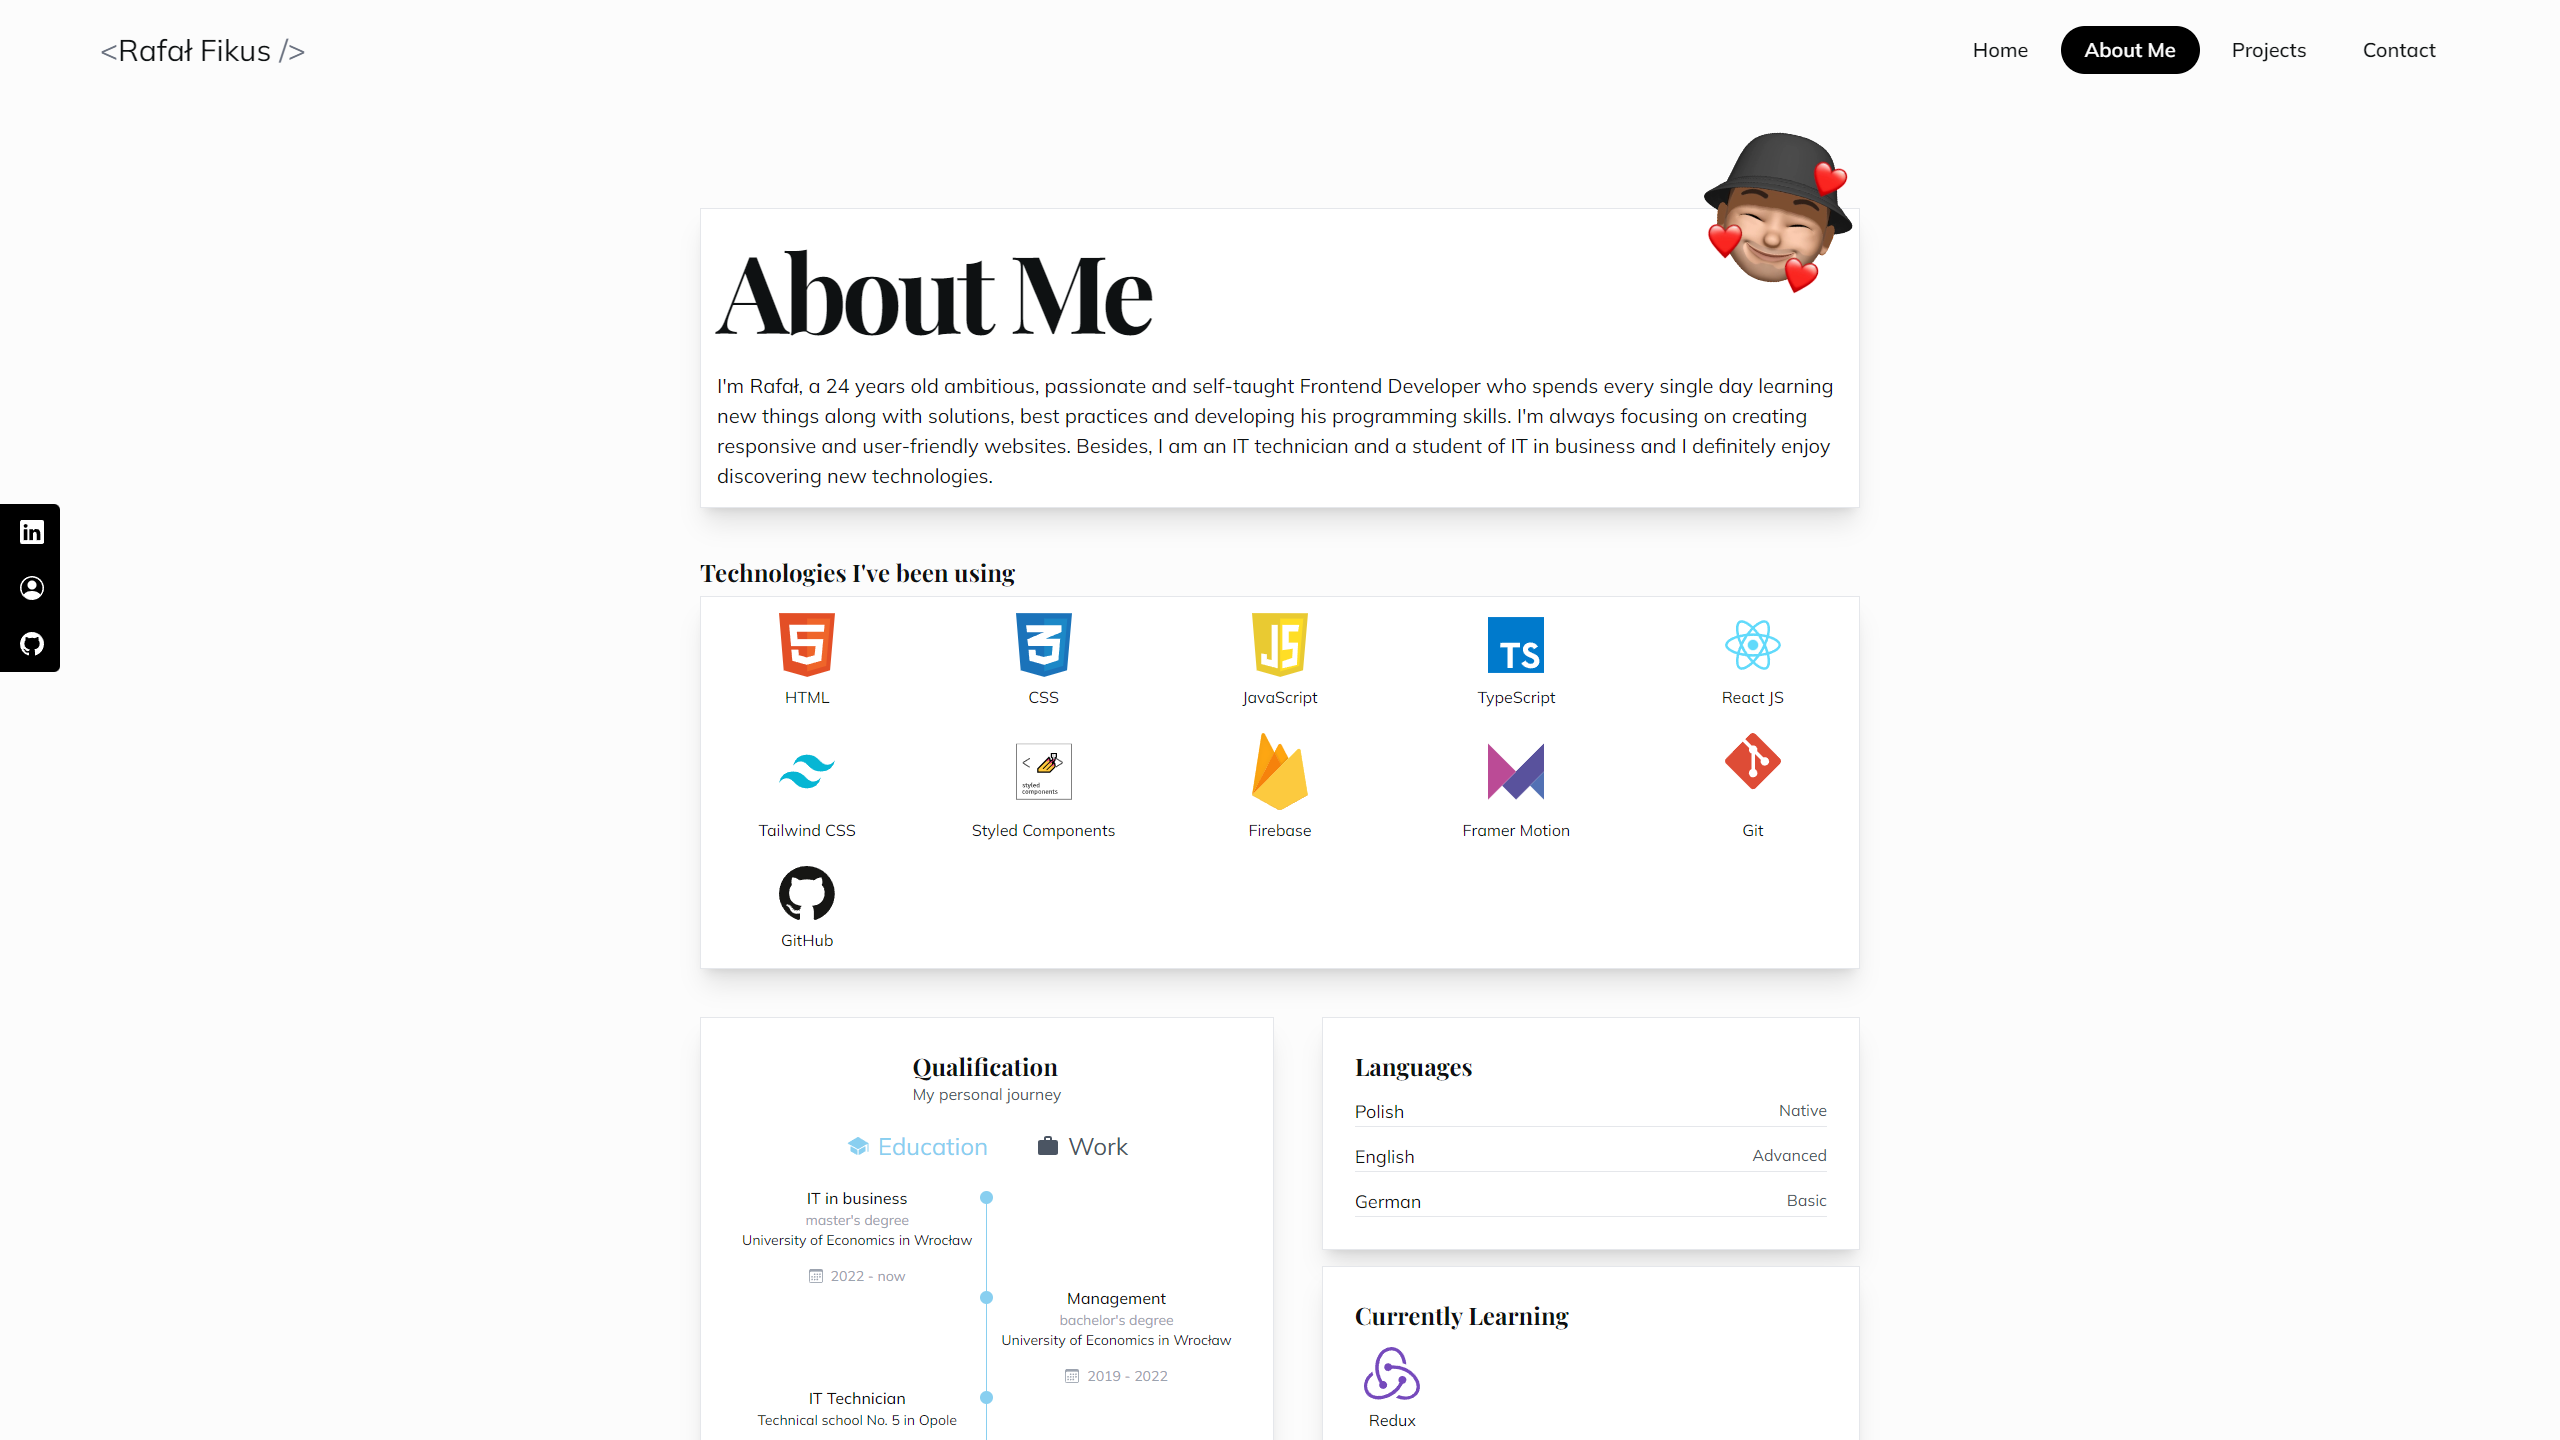
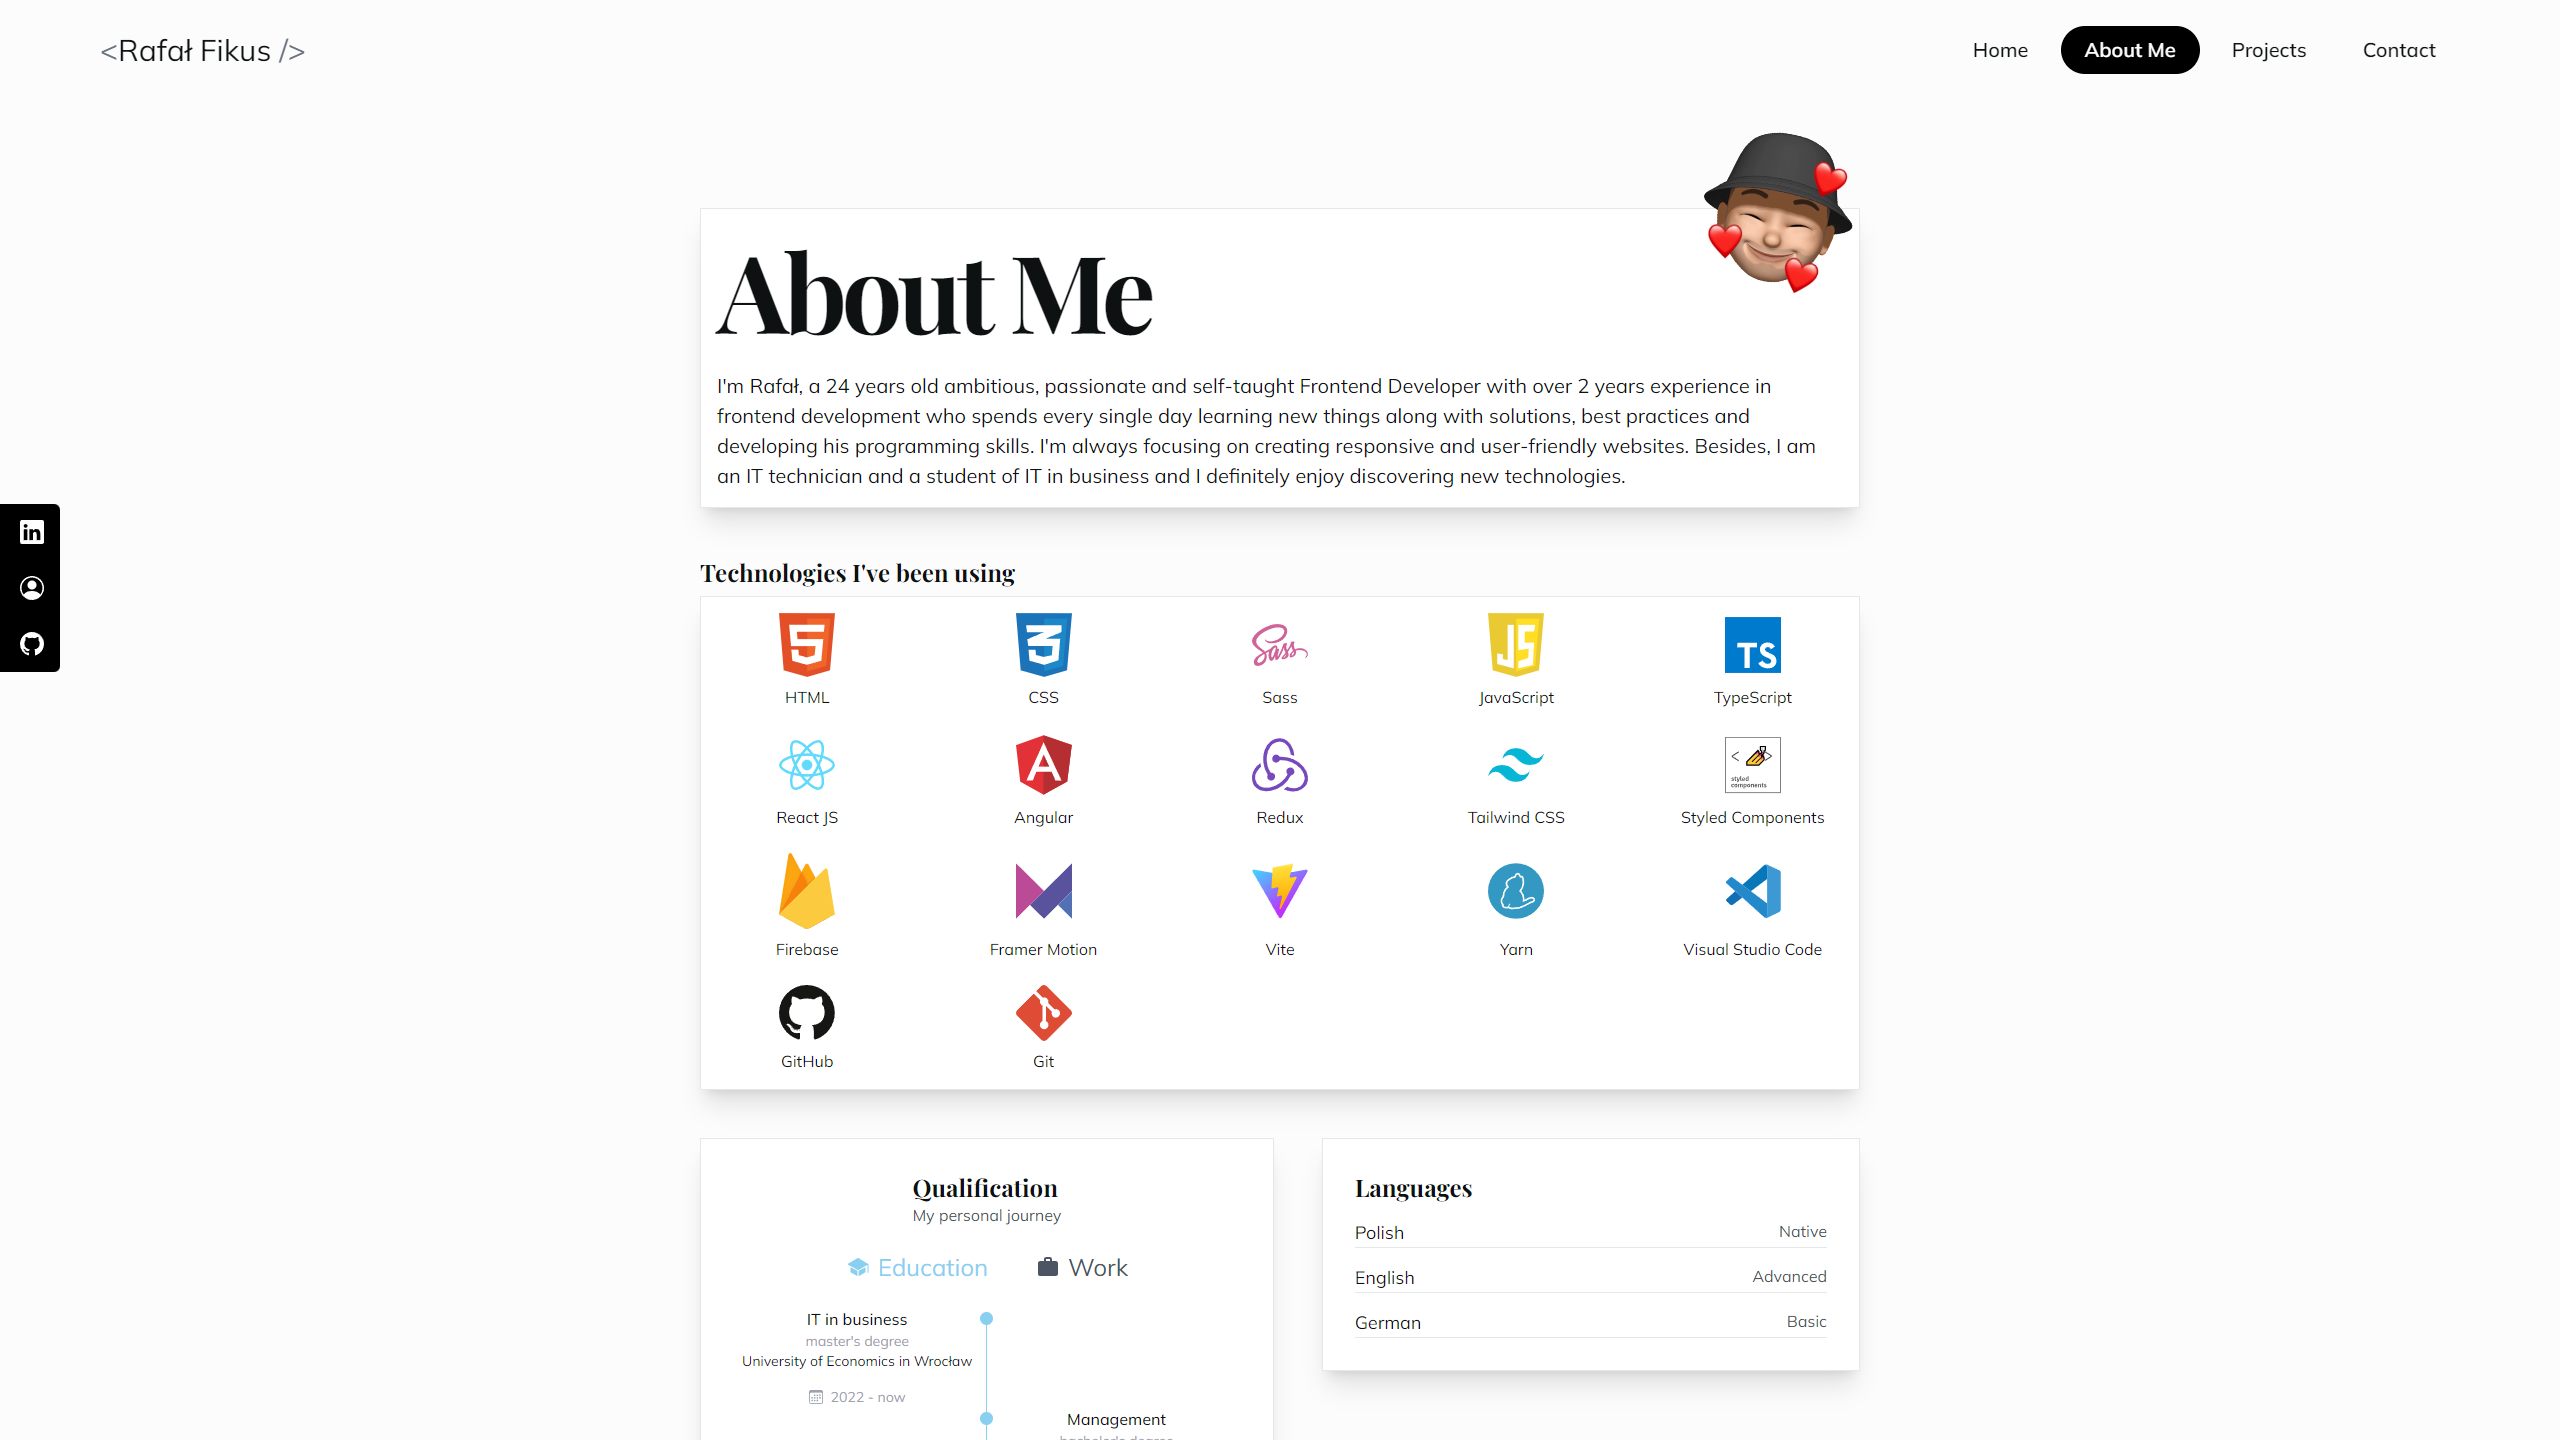
updt

diff --git a/src/assets/index.ts b/src/assets/index.ts
@@ -10,6 +10,11 @@ import githubLogo from "./techLogos/githubLogo.svg";
 import gitLogo from "./techLogos/gitLogo.svg";
 import typescriptLogo from "./techLogos/typescriptLogo.svg";
 import reduxLogo from "./techLogos/reduxLogo.svg";
+import angularLogo from "./techLogos/angularLogo.svg";
+import sassLogo from "./techLogos/sassLogo.svg";
+import viteLogo from "./techLogos/viteLogo.svg";
+import vscLogo from "./techLogos/vscLogo.svg";
+import yarnLogo from "./techLogos/yarnLogo.svg";
 import netflix1 from "./websites/netflix1.webp";
 import netflix2 from "./websites/netflix2.webp";
 import netflix3 from "./websites/netflix3.webp";
@@ -22,6 +27,8 @@ import tesla1 from "./websites/tesla1.webp";
 import tesla2 from "./websites/tesla2.webp";
 import weather1 from "./websites/weather1.webp";
 import weather2 from "./websites/weather2.webp";
+import games1 from "./websites/games1.webp";
+import games2 from "./websites/games2.webp";
 
 const techList = [
   {
@@ -36,48 +43,78 @@ const techList = [
   },
   {
     id: 3,
+    name: "Sass",
+    image: sassLogo,
+  },
+  {
+    id: 4,
     name: "JavaScript",
     image: jsLogo,
   },
   {
-    id: 4,
+    id: 5,
     name: "TypeScript",
     image: typescriptLogo,
   },
   {
-    id: 5,
+    id: 6,
     name: "React JS",
     image: reactLogo,
   },
   {
-    id: 6,
+    id: 7,
+    name: "Angular",
+    image: angularLogo,
+  },
+  {
+    id: 8,
+    name: "Redux",
+    image: reduxLogo,
+  },
+  {
+    id: 9,
     name: "Tailwind CSS",
     image: tailwindLogo,
   },
   {
-    id: 7,
+    id: 10,
     name: "Styled Components",
     image: styledcomponentsLogo,
   },
   {
-    id: 8,
+    id: 11,
     name: "Firebase",
     image: firebaseLogo,
   },
   {
-    id: 9,
+    id: 12,
     name: "Framer Motion",
     image: framermotionLogo,
   },
   {
-    id: 10,
-    name: "Git",
-    image: gitLogo,
+    id: 13,
+    name: "Vite",
+    image: viteLogo,
   },
   {
-    id: 11,
+    id: 14,
+    name: "Yarn",
+    image: yarnLogo,
+  },
+  {
+    id: 15,
+    name: "Visual Studio Code",
+    image: vscLogo,
+  },
+  {
+    id: 16,
     name: "GitHub",
     image: githubLogo,
+  },
+  {
+    id: 17,
+    name: "Git",
+    image: gitLogo,
   },
 ];
 
@@ -92,6 +129,24 @@ const currentlyLearning = [
 const projectsList = [
   {
     id: 1,
+    name: "E-commerce website",
+    description:
+      "Online store website created by fetching data from Fake Store API, fully styled using Tailwind CSS. The website allows you to add items to the cart and fully manipulate cart content. The shopping cart dynamically updates the number of items in it and their total value. Each product has its own dynamically generated page.",
+    images: [ecommerce1, ecommerce2, ecommerce3],
+    tags: [
+      "React",
+      "Typescript",
+      "Redux",
+      "Tailwind CSS",
+      "API (Axios)",
+      "React Router",
+      "Swiper",
+    ],
+    liveLink: "https://ecmrc-react-ts-redux-rf.netlify.app/",
+    codeLink: "https://github.com/Vertori/ecmrc-react-ts-redux.git",
+  },
+  {
+    id: 2,
     name: "Netflix Clone",
     description:
       "Netlix Clone created by fetching data from TMDb API, fully styled using Tailwind CSS. Thanks to Firebase, the website allows signing in, signing up, saving movies for signed in users and deleting them from saved list. Account page is only available to signed in users, which is provided by protected route. ",
@@ -109,24 +164,24 @@ const projectsList = [
     codeLink: "https://github.com/Vertori/ntflx-cln-react-ts",
   },
   {
-    id: 2,
-    name: "E-commerce website",
+    id: 3,
+    name: "Games Search Engine",
     description:
-      "Online store website created by fetching data from Fake Store API, fully styled using Tailwind CSS. The website allows you to add items to the cart and fully manipulate cart content. The shopping cart dynamically updates the number of items in it and their total value. Each product has its own dynamically generated page.",
-    images: [ecommerce1, ecommerce2, ecommerce3],
+      "A website designed to find games and get detailed information about them. Created using React JS, TypeScript and designed using Tailwind CSS. Website is fully responsive and based on fetching data using Axios from an API. It allows you to search for games by name, filter games by category, and display detailed information about games, all dynamically generated via queries to the API.",
+    images: [games1, games2],
     tags: [
       "React",
       "Typescript",
       "Tailwind CSS",
       "API (Axios)",
       "React Router",
-      "Swiper",
+      "Context API",
     ],
-    liveLink: "https://ecmrc-react-ts-rf.netlify.app/",
-    codeLink: "https://github.com/Vertori/e-cmrc-react-typescript",
+    liveLink: "https://discover-games-react-ts-rf.netlify.app/",
+    codeLink: "https://github.com/Vertori/games-app-react-ts",
   },
   {
-    id: 3,
+    id: 4,
     name: "YouTube Clone",
     description:
       "Website created by fetching data from API, fully styled using Tailwind CSS. It allows you to search for movies and channels, to watch movies and explore channels content. Each movie includes its own dynamically generated page that contains information about the movie and displays other related movies.",
@@ -143,7 +198,7 @@ const projectsList = [
     codeLink: "https://github.com/Vertori/yt-cln-react-ts",
   },
   {
-    id: 4,
+    id: 5,
     name: "Tesla Clone",
     description:
       "Tesla Clone website designed using Styled Components. This is a simple page that, using a single component that accepts props, generates sections for each brand model. Sections are animated using React Awesome Reveal, and scrolling the mouse causes the website to jump to the next sections.",
@@ -159,7 +214,7 @@ const projectsList = [
     codeLink: "https://github.com/Vertori/tsl-cln-react-typescript",
   },
   {
-    id: 5,
+    id: 6,
     name: "Weather App",
     description:
       "Weather app based on fetching data from Weather API. It allows users to search for any city, selecting one from those suggested by a dynamically generated list. The application then displays detailed weather data for the selected location. Fully styled using Tailwind CSS.",

diff --git a/src/components/WorkPath.tsx b/src/components/WorkPath.tsx
@@ -8,16 +8,34 @@ const WorkPath = (): JSX.Element => {
         {/* Work data 1 */}
         <div className="grid grid-cols-[1fr,max-content,1fr]">
           <div className="text-center px-2 flex flex-col">
-            <h3 className="font-medium text-base">Quality Controller</h3>
+            <h3 className="font-medium text-base">IT Application Analyst</h3>
             <p className="text-sm mb-4">Wrzeciono Sp. z o. o.</p>
             <div className="text-sm text-gray-400 flex items-center justify-center gap-x-2">
               <BsCalendar3 />
-              <p>2020 - 2022</p>
+              <p>2022 - 2023</p>
             </div>
           </div>
           <div>
             <p className="inline-block w-[13px] h-[13px] rounded-full bg-[#89cff0]"></p>
             <p className="block w-[1px] h-full bg-[#89cff0] translate-x-[6px] -translate-y-[7px]"></p>
+          </div>
+        </div>
+           {/* Work data 2 */}
+           <div className="grid grid-cols-[1fr,max-content,1fr]">
+          <div></div>
+
+          <div>
+            <span className="inline-block w-[13px] h-[13px] rounded-full bg-[#89cff0]"></span>
+            <span className="block w-[1px] h-full bg-[#89cff0] translate-x-[6px] -translate-y-[7px]"></span>
+          </div>
+
+          <div className="text-center px-2 flex flex-col">
+          <h3 className="font-medium text-base">Quality Controller</h3>
+            <p className="text-sm mb-4">Wrzeciono Sp. z o. o.</p>
+            <div className="text-sm text-gray-400 flex items-center justify-center gap-x-2">
+              <BsCalendar3 />
+              <span>2019 - 2022</span>
+            </div>
           </div>
         </div>
       </div>

diff --git a/src/components/Languages.tsx b/src/components/Languages.tsx
@@ -1,11 +1,11 @@
-import { currentlyLearning } from "../assets";
-import TechItem from "../components/TechItem";
+// import { currentlyLearning } from "../assets";
+// import TechItem from "../components/TechItem";
 
 const Languages = (): JSX.Element => {
   return (
-    <div className="flex flex-col gap-y-4 w-full">
+    <div className="flex flex-col gap-y-4 w-full h-full">
       {/* Languages list */}
-      <div className="flex flex-col gap-y-4 bg-white border shadow-xl p-8 w-full ">
+      <div className="flex flex-col gap-y-4 bg-white border shadow-xl p-8 w-full">
         <h2 className="font-primary font-bold text-2xl">Languages</h2>
         {/* Polish */}
         <div className="flex justify-between border-b">
@@ -24,15 +24,7 @@ const Languages = (): JSX.Element => {
         </div>
       </div>
       {/* Currently learning */}
-      <div className="bg-white border shadow-xl p-8 w-full flex flex-col h-full">
-        <h2 className="font-primary font-bold text-2xl">Currently Learning</h2>
-        {/* Displayed currently learning */}
-        <div className="grid grid-cols-2 sm:grid-cols-3 md:grid-cols-4 lg:grid-cols-5 gap-6 py-4">
-          {currentlyLearning.map((item) => {
-            return <TechItem item={item} key={item.id} />;
-          })}
-        </div>
-      </div>
+     
     </div>
   );
 };

diff --git a/src/pages/About.tsx b/src/pages/About.tsx
@@ -18,7 +18,7 @@ const About = (): JSX.Element => {
           <h1 className="h1 mb-4 text-center lg:text-start">About Me</h1>
           <p className="text-[20px] text-primary text-center lg:text-start">
             I'm Rafał, a 24 years old ambitious, passionate and self-taught
-            Frontend Developer who spends every single day learning new things
+            Frontend Developer with over 2 years experience in frontend development who spends every single day learning new things
             along with solutions, best practices and developing his programming
             skills. I'm always focusing on creating responsive and user-friendly
             websites. Besides, I am an IT technician and a student of IT in

diff --git a/src/components/SideSocials.tsx b/src/components/SideSocials.tsx
@@ -16,7 +16,7 @@ const SideSocials = (): JSX.Element => {
         </li>
         <li className="flex justify-between items-center w-40 h-14 px-4 bg-black ml-[-100px] duration-500 hover:rounded-md hover:ml-[-10px]">
           <a
-            href="https://drive.google.com/file/d/1UxIpCbqG5Yh3ItfAR5up_pgdsakBR_tI/view?usp=sharing"
+            href="https://drive.google.com/file/d/1IKsOQfcunOYjOVgvi5ZyAr1Mv-iQ8v4L/view?usp=sharing"
             target="_blank"
             className="flex justify-between items-center w-full text-white font-semibold ml-4"
           >

diff --git a/src/pages/Contact.tsx b/src/pages/Contact.tsx
@@ -83,7 +83,7 @@ const Contact = (): JSX.Element => {
             <BsTelephoneFill className="text-2xl" />
             <div>
               <h3 className="text-xl">Phone</h3>
-              <p className="text-base text-gray-600">+48 123-456-789</p>
+              <p className="text-base text-gray-600">+48 783-166-973</p>
             </div>
           </div>
           {/* Location */}
